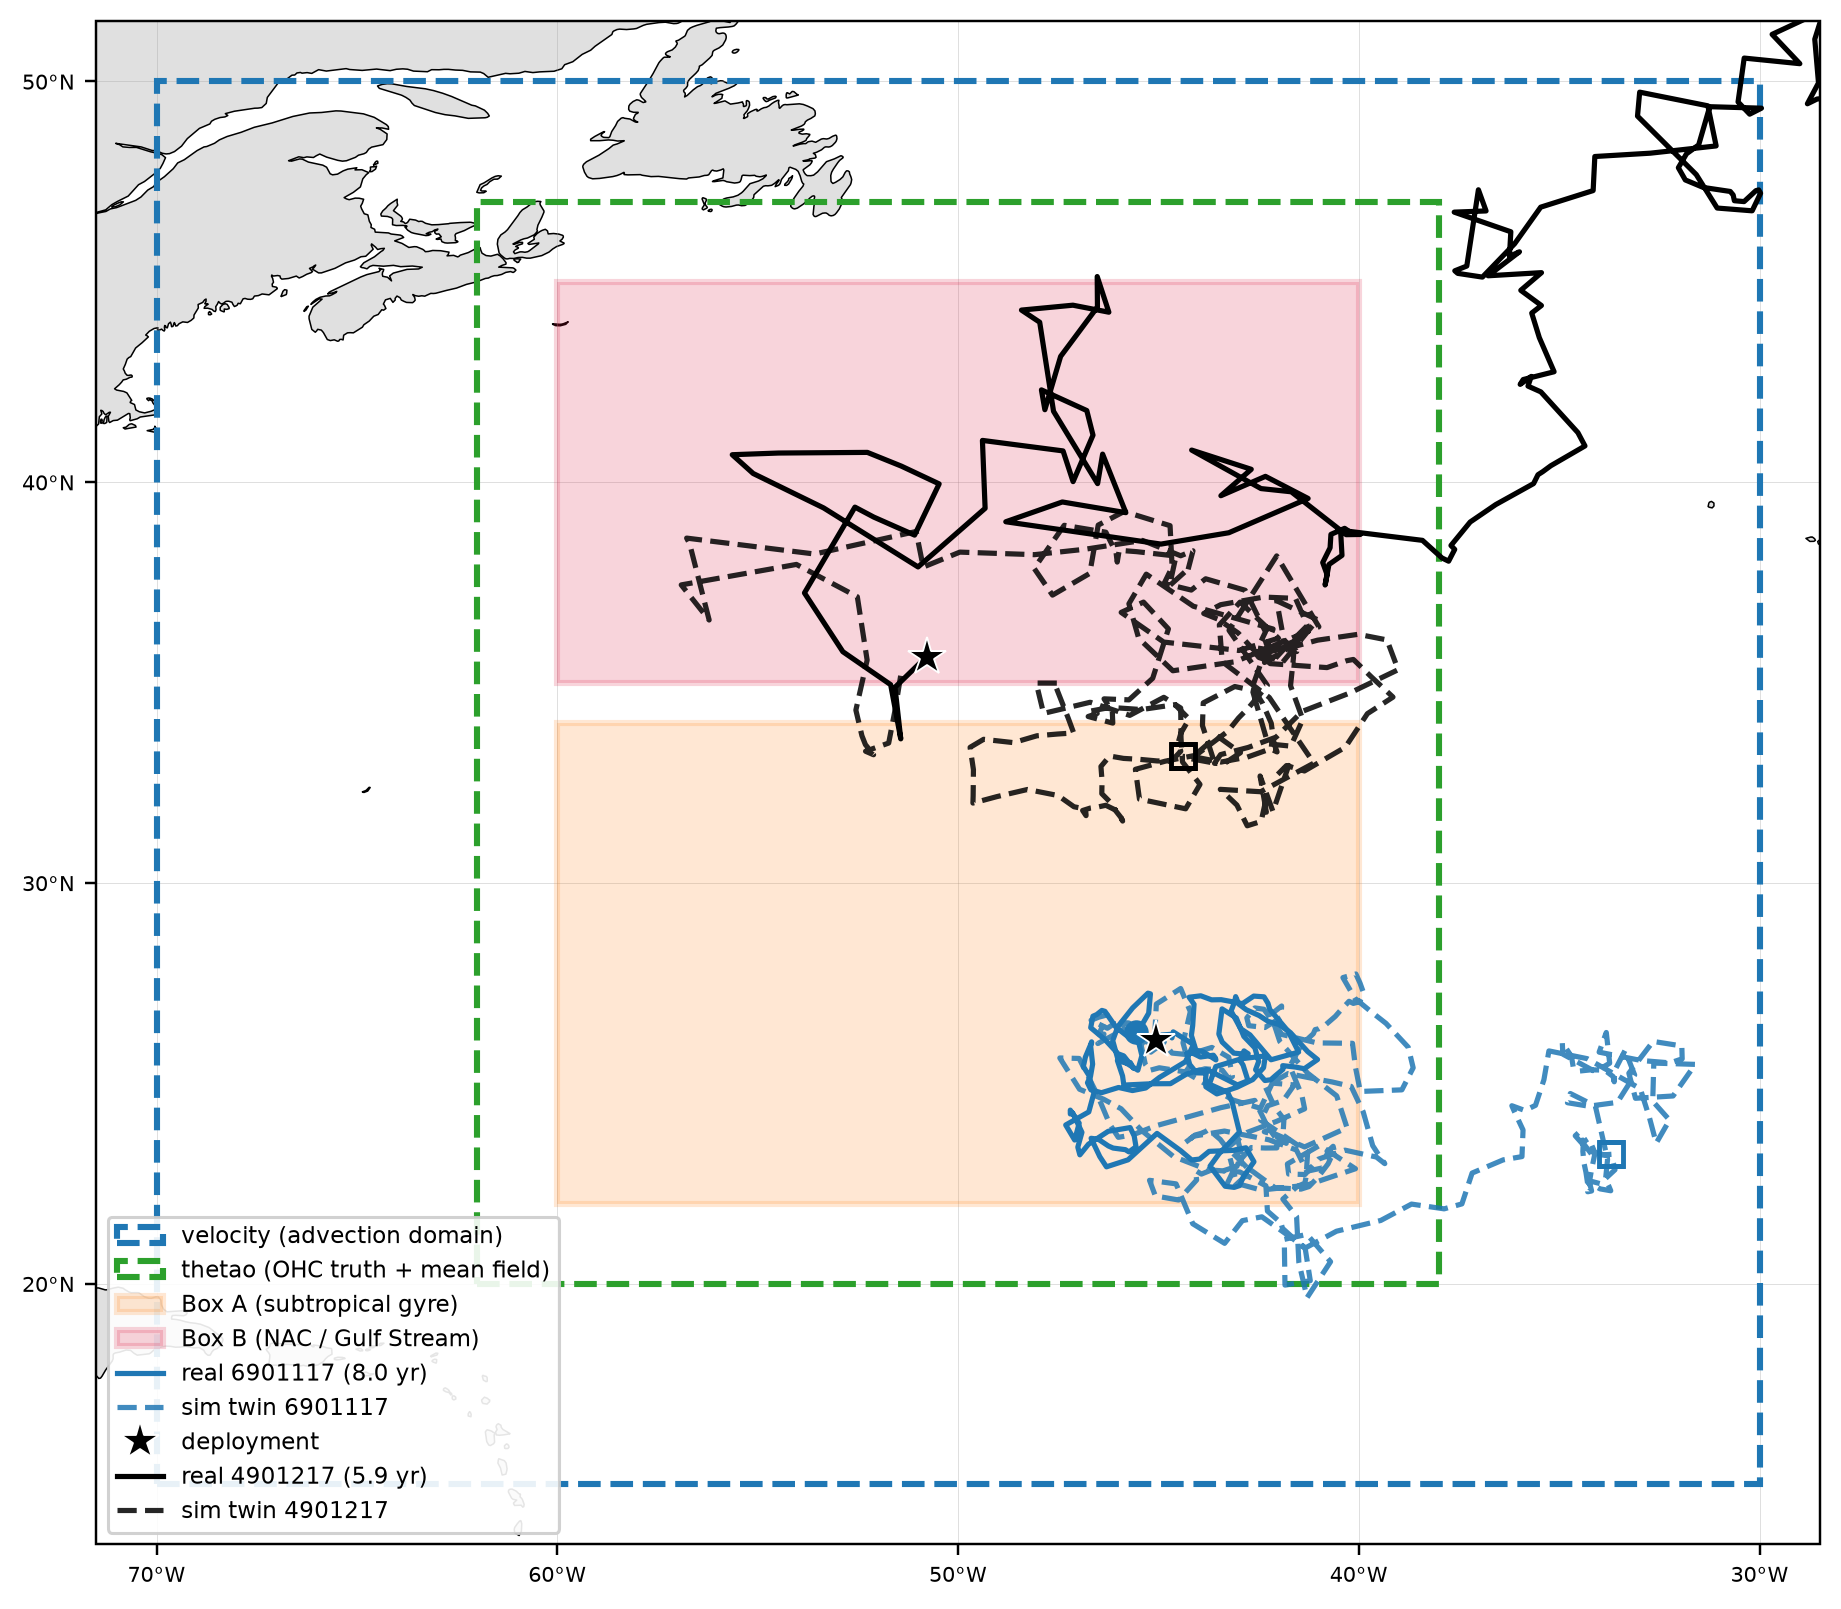
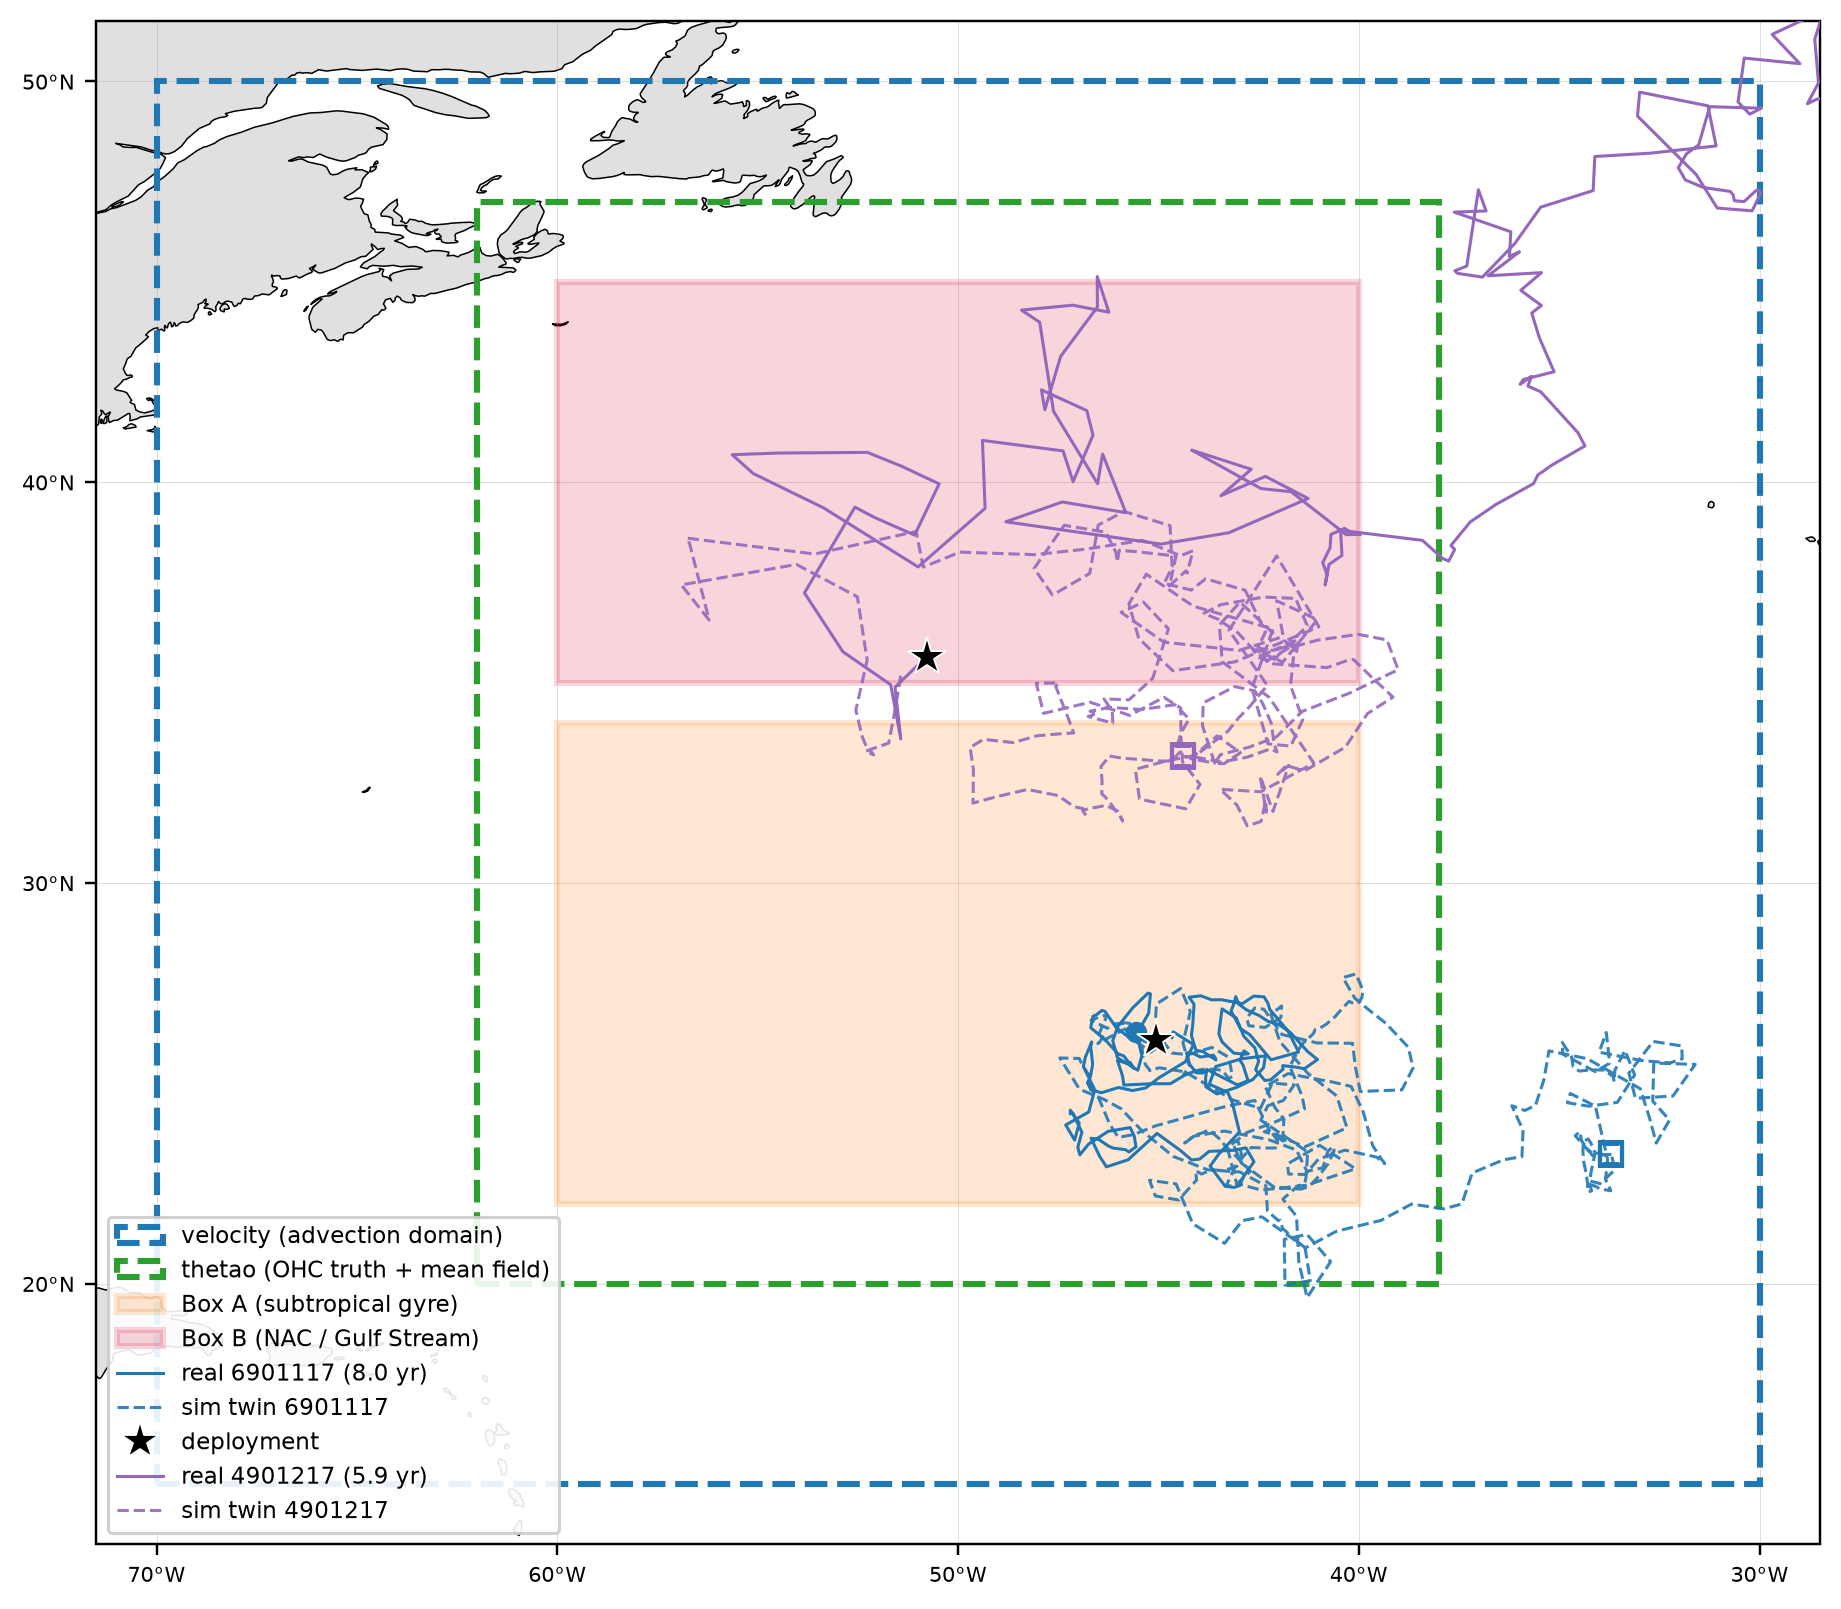
report: recolor twin trajectory map and thin the tracks
Box A float blue, Box B float purple (distinct paired hues), lines thinned to
1.0 so real (solid) vs sim twin (dashed) is easier to read.

diff --git a/code/osse/mean_mc.py b/code/osse/mean_mc.py
@@ -1118,21 +1118,21 @@ def plot_trajectory_twins(pairs=((295, 6901117), (68, 4901217)), tracks=None,
     dep = {int(r.seed_id): r for r in pl.itertuples()}
 
     fig, ax, pc, e = _domain_base(boxes, figsize)
-    colors = ["tab:blue", "black", "tab:purple", "saddlebrown"]
+    colors = ["#1f77b4", "#9467bd", "#17becf", "#8c564b"]
     for k, (sid, fid) in enumerate(pairs):
         c = colors[k % len(colors)]
         d = dep[int(sid)]
         rt = realg[int(fid)]; rt = rt[rt["date"] >= d.date]
         st = simg[int(sid)]
         yrs = (rt["date"].max() - d.date).days / 365.25
-        ax.plot(rt["lon"], rt["lat"], "-", color=c, lw=1.7, transform=pc, zorder=3,
+        ax.plot(rt["lon"], rt["lat"], "-", color=c, lw=1.0, transform=pc, zorder=3,
                 label=f"real {fid} ({yrs:.1f} yr)")
-        ax.plot(st["lon"], st["lat"], "--", color=c, lw=1.7, alpha=0.85, transform=pc,
+        ax.plot(st["lon"], st["lat"], "--", color=c, lw=1.0, alpha=0.9, transform=pc,
                 zorder=3, label=f"sim twin {fid}")
-        ax.plot(rt["lon"].iloc[-1], rt["lat"].iloc[-1], "o", color=c, ms=7,
+        ax.plot(rt["lon"].iloc[-1], rt["lat"].iloc[-1], "o", color=c, ms=6,
                 transform=pc, zorder=4)
         ax.plot(st["lon"].iloc[-1], st["lat"].iloc[-1], "s", mfc="none", mec=c,
-                mew=1.6, ms=8, transform=pc, zorder=4)
+                mew=1.4, ms=7, transform=pc, zorder=4)
         ax.plot(d.lon, d.lat, "*", color="k", ms=13, mec="w", mew=0.6,
                 transform=pc, zorder=5, label="deployment" if k == 0 else None)
     ax.legend(loc="lower left", fontsize=7.5, framealpha=0.9)
